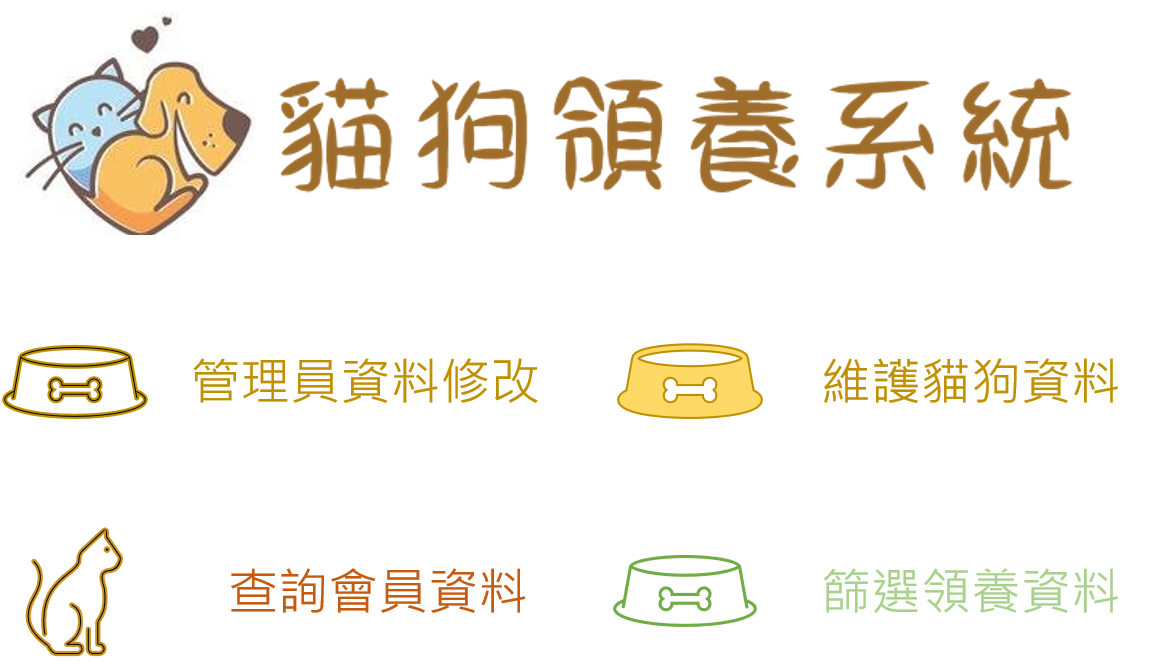
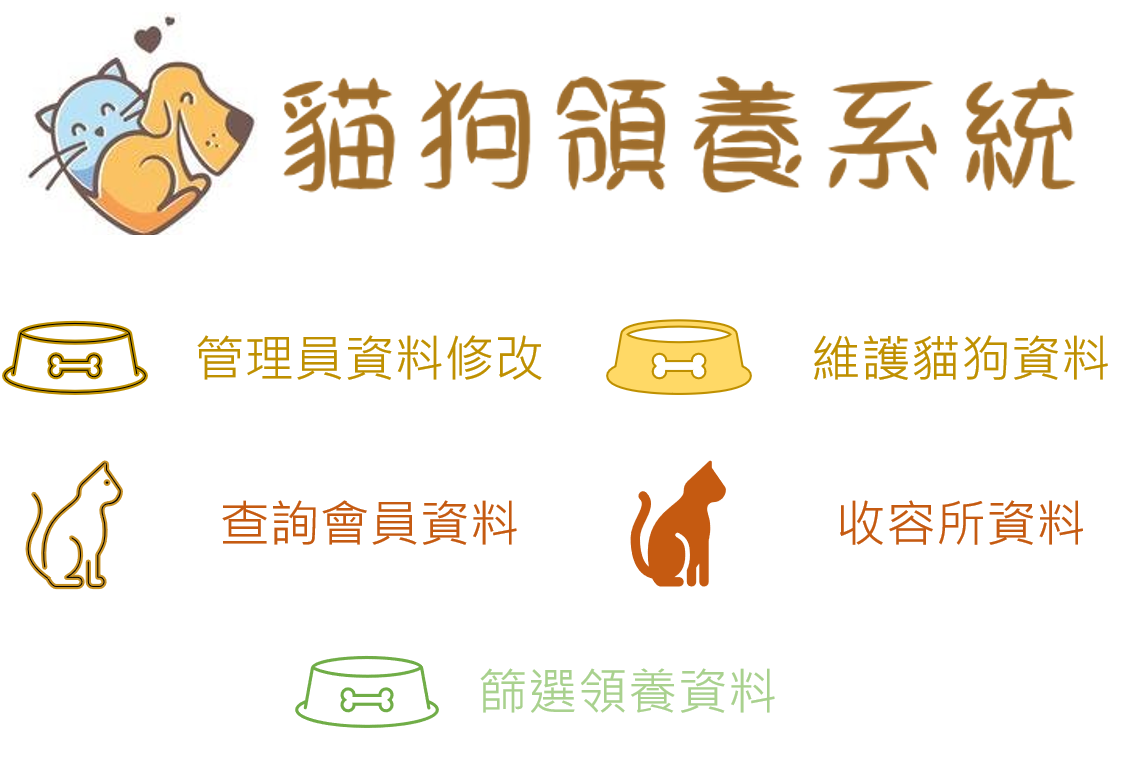
UI

diff --git a/HTML/manager_UI.html b/HTML/manager_UI.html
@@ -10,11 +10,27 @@
             width: 840px;
             margin-top: 5%;
         }
+        p{
+            margin-top: -500px;
+        }
+        input{
+            background:transparent;
+            border-width:0px;
+            outline:none;
+            width: 400px;
+            height: 100px;
+        }
     </style>
 </head>
 <body>
     <center>
         <img src="manager_UI.png" alt="">
+        <p></p>
+        <input type="button" style="margin: 125px 0px 0px 25px;" onclick="location.href='#'">
+        <input type="button" style="margin: 125px 0px 0px 25px;" onclick="location.href='#'"><br>
+        <input type="button" style="margin: 25px 0px 0px 25px;" onclick="location.href='#'">
+        <input type="button" style="margin: 25px 0px 0px 25px;" onclick="location.href='#'"><br>
+        <input type="button" style="margin: 25px 0px 0px 25px;" onclick="location.href='#'">
     </center>
 </body>
 </html>
